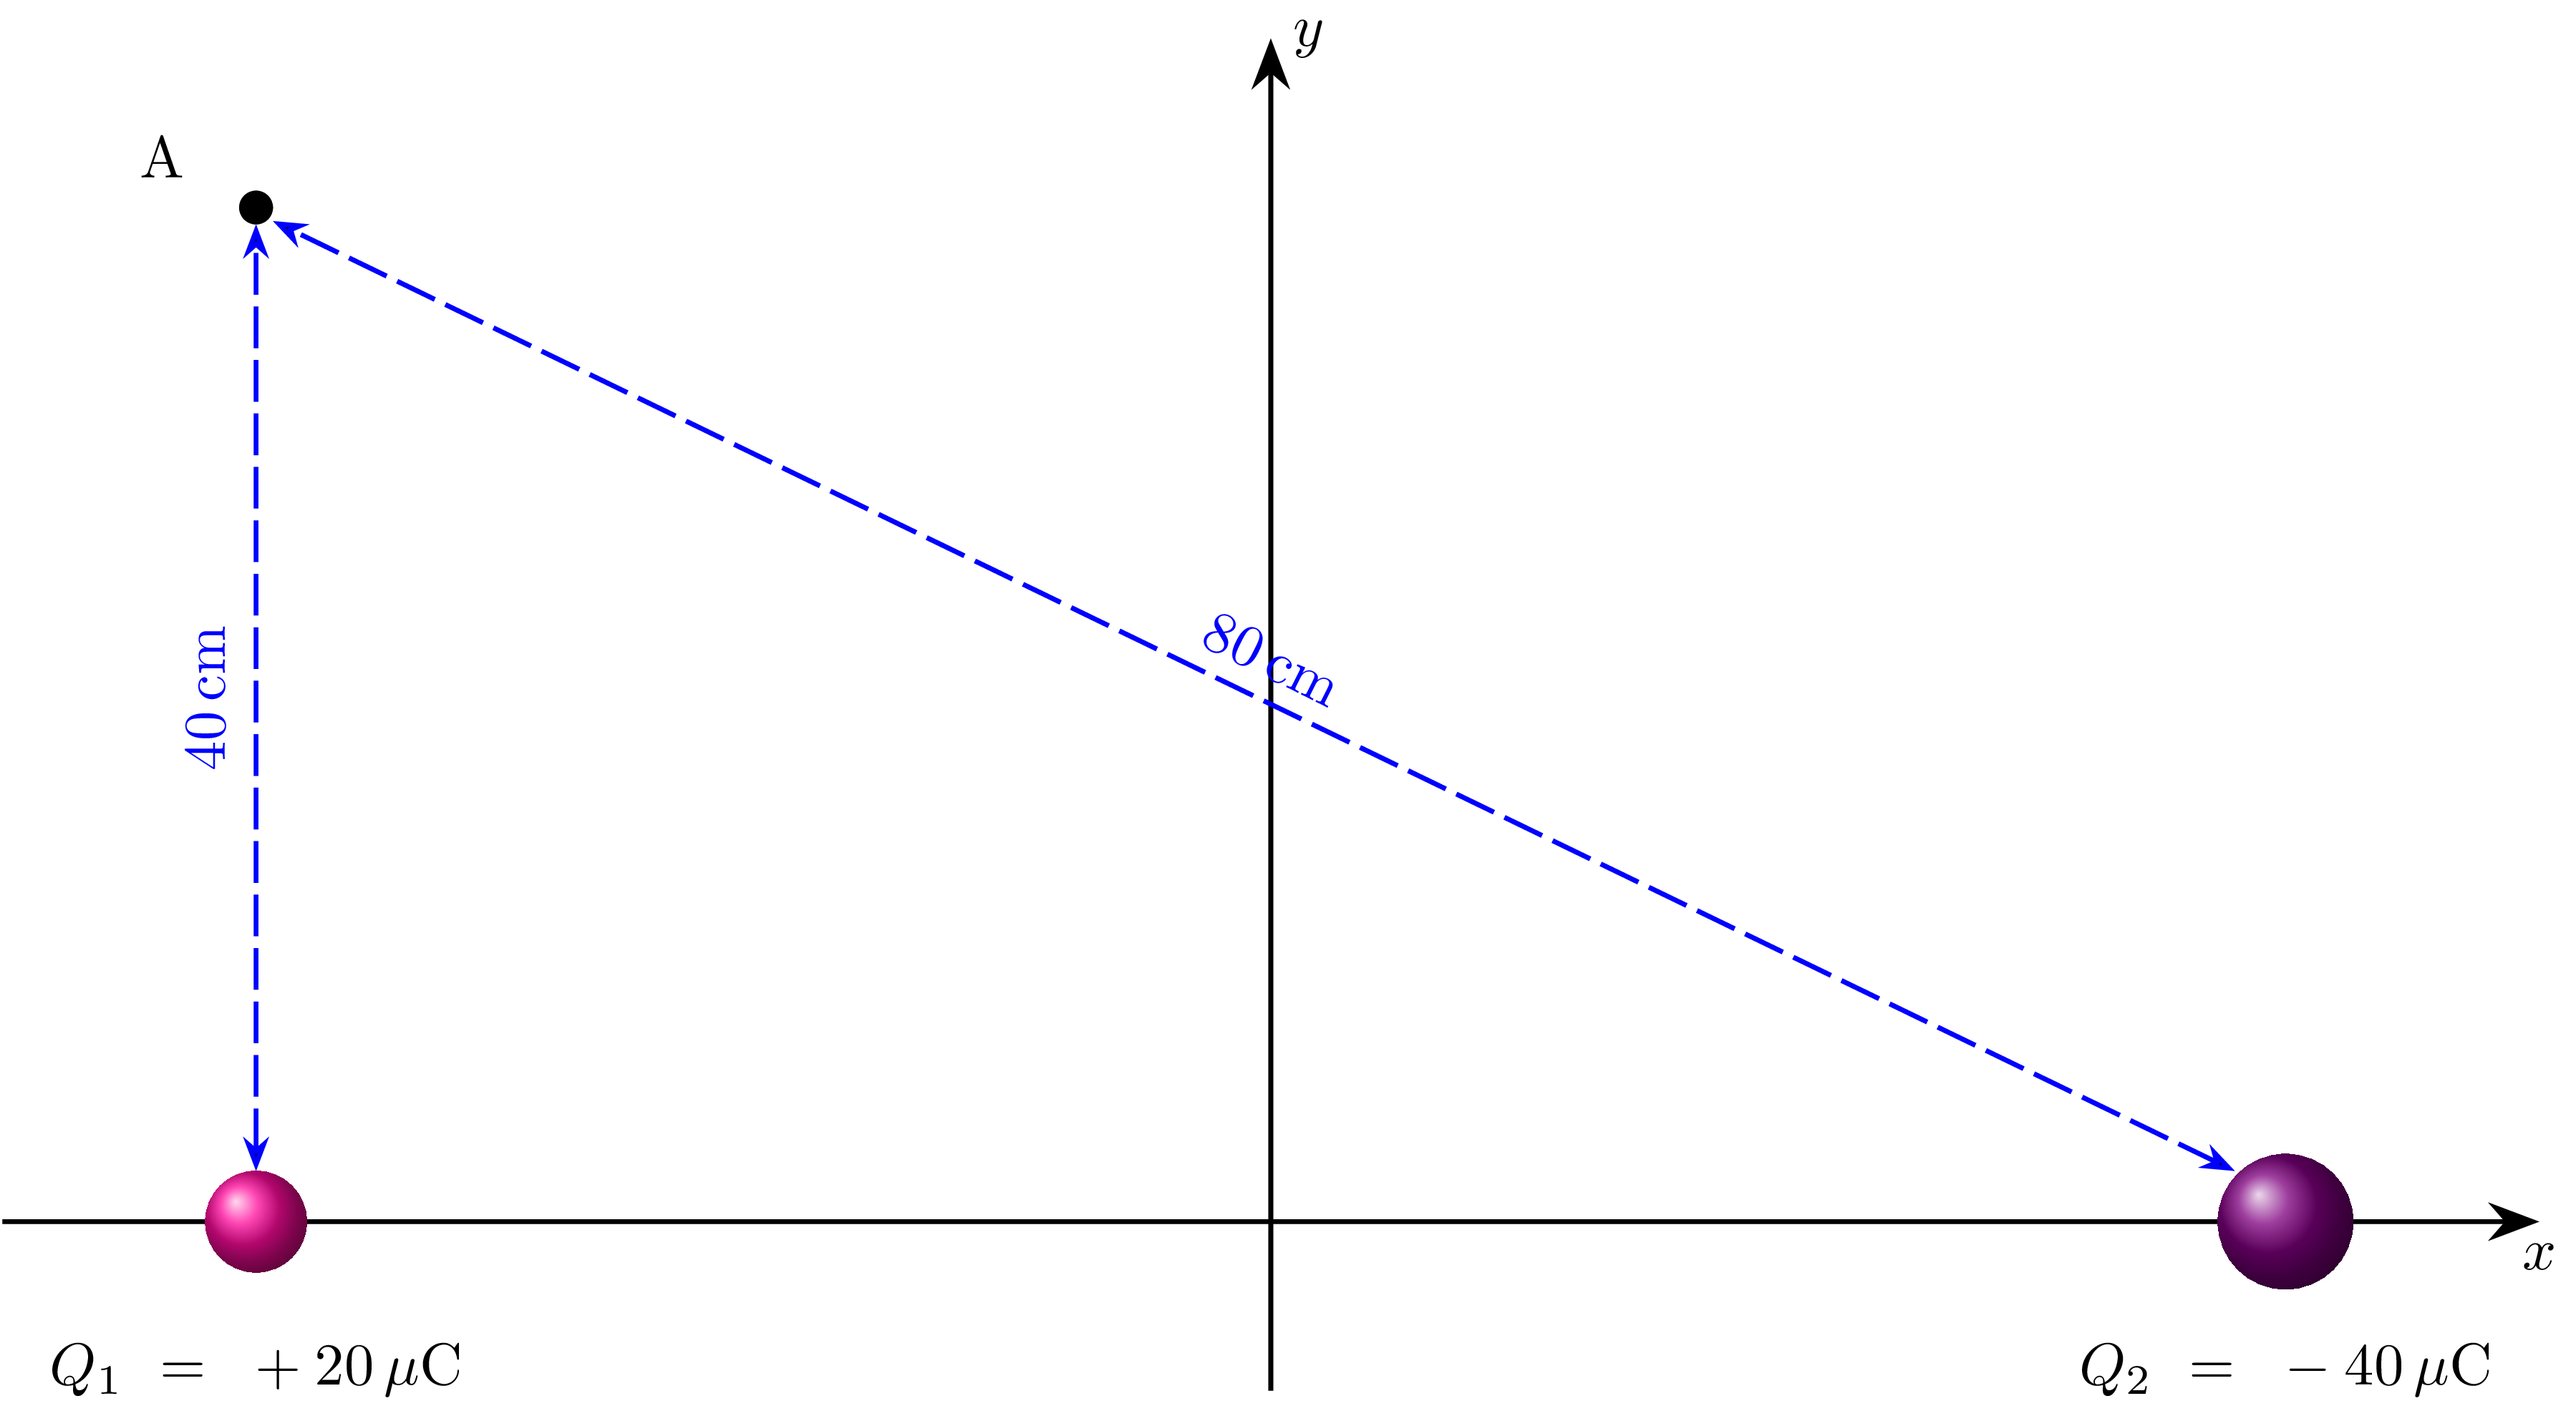
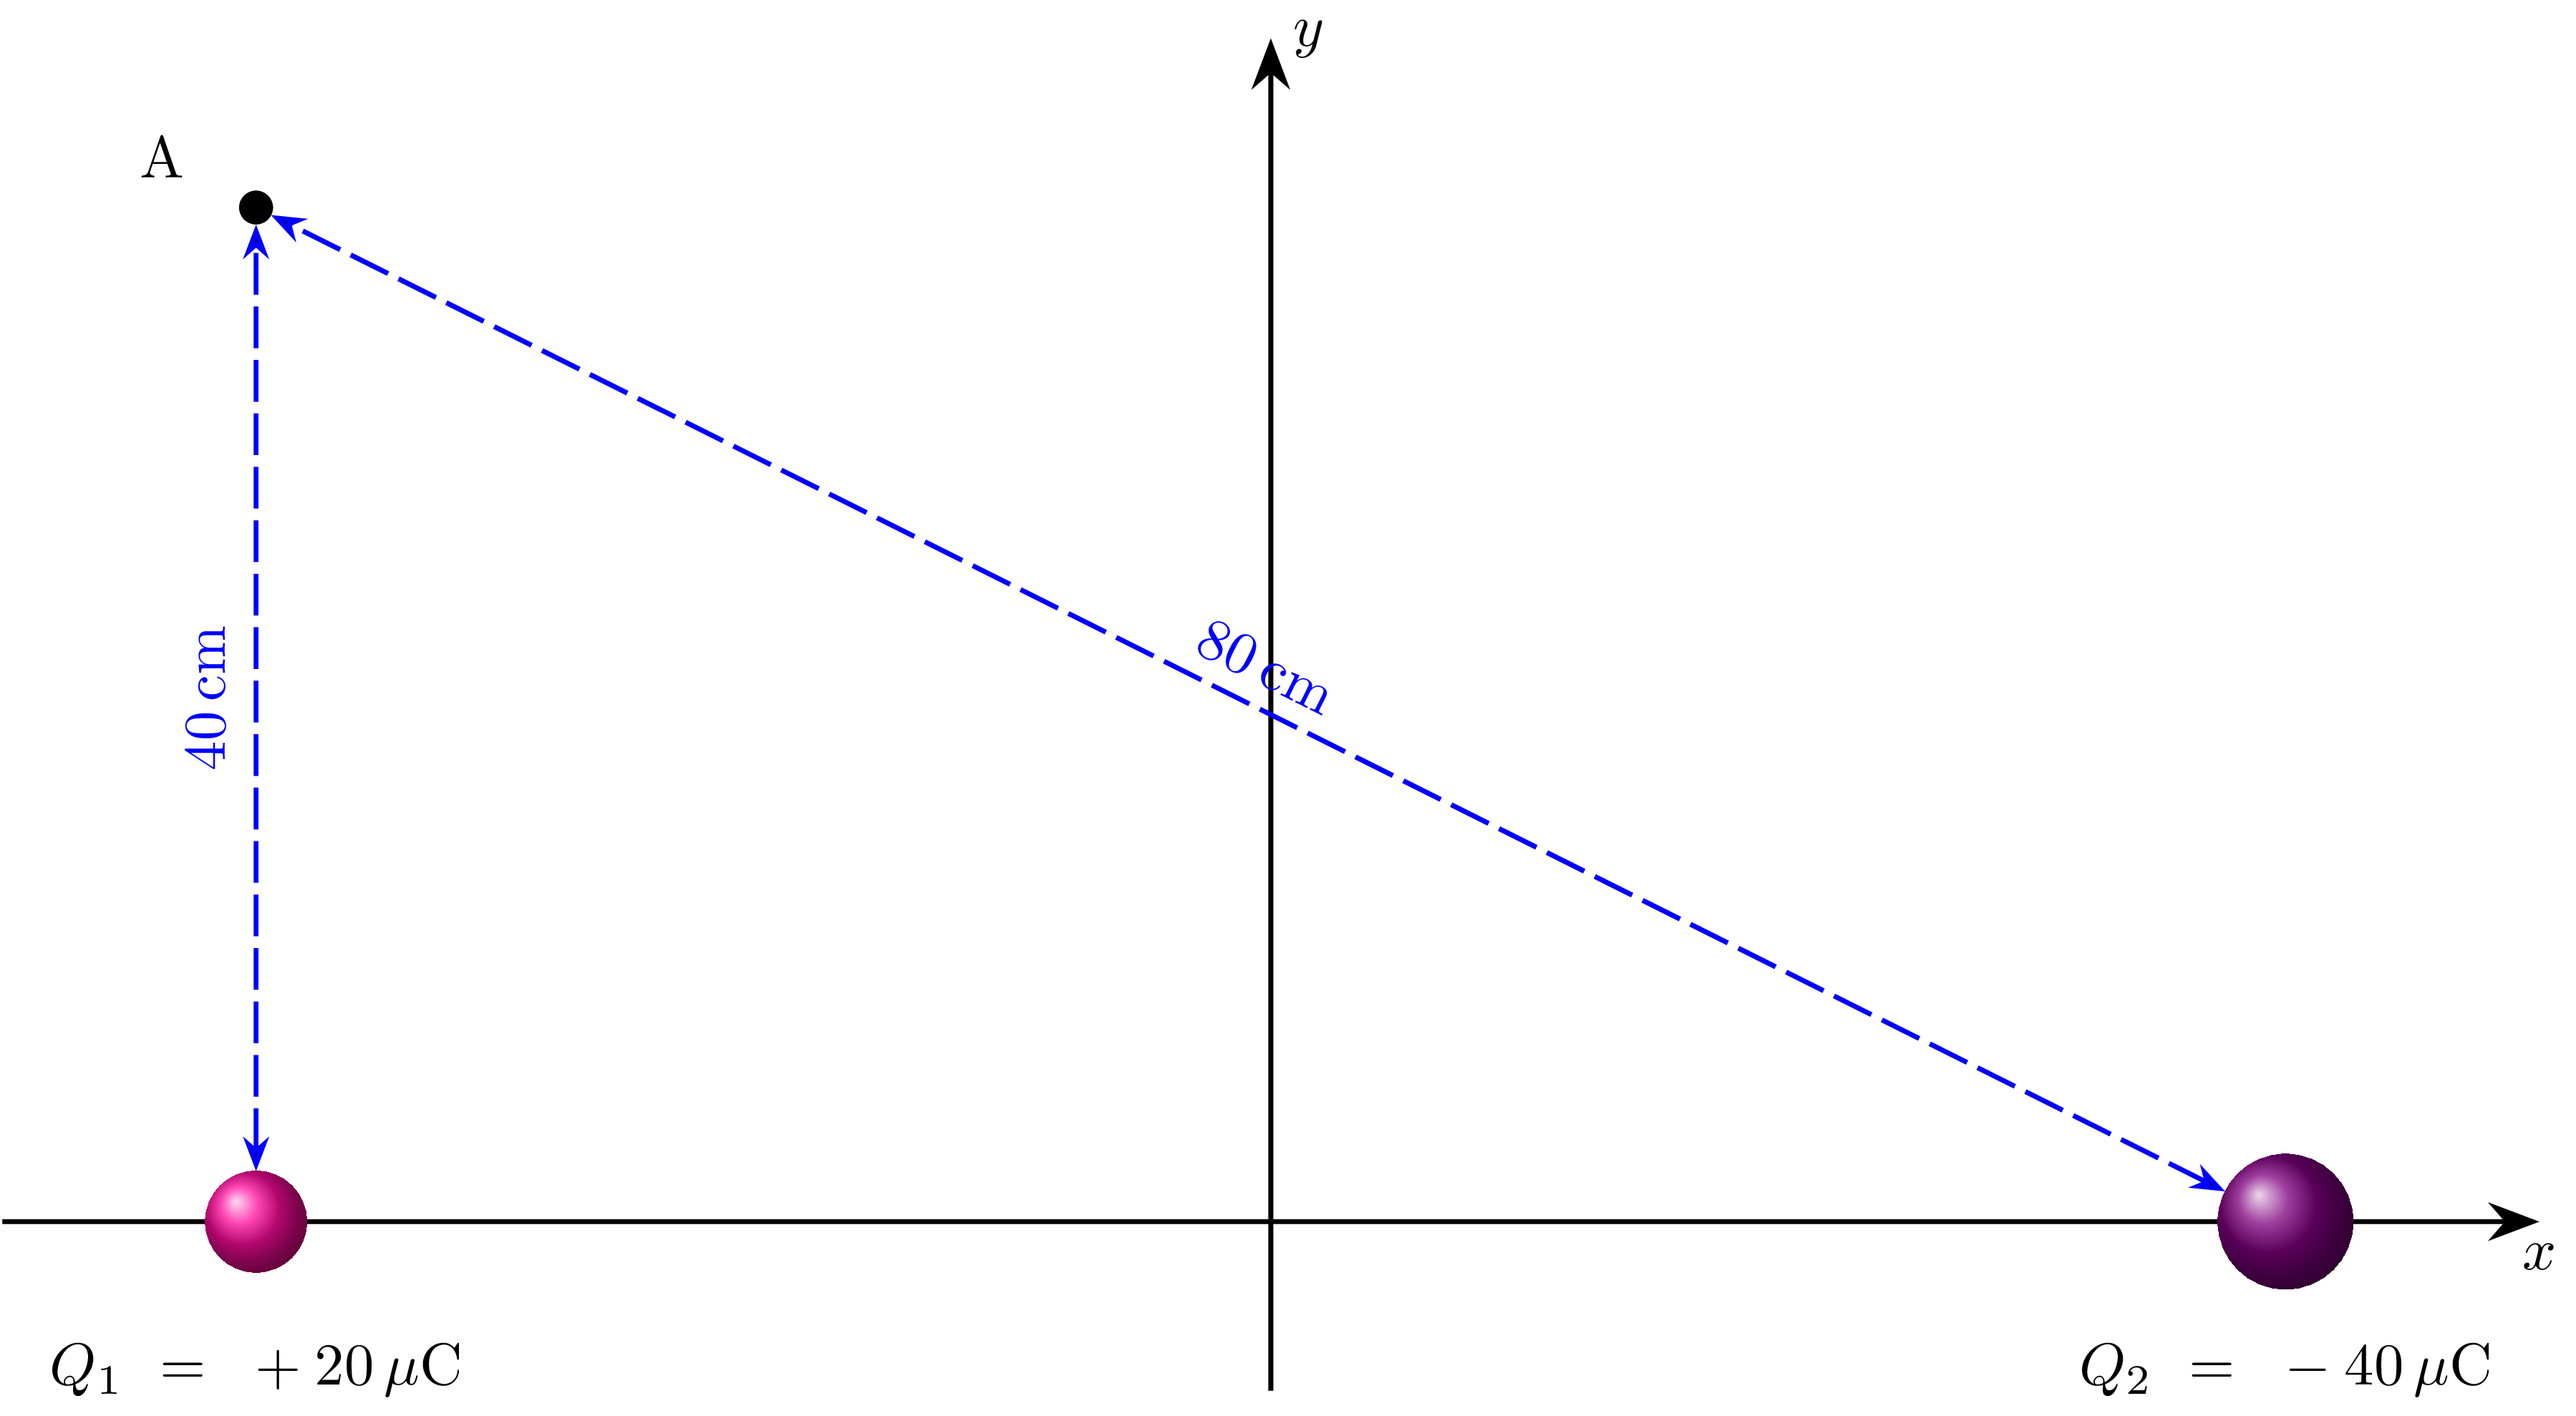
Use intersections properly to draw the distances

diff --git a/quiz-picture-potential.tex b/quiz-picture-potential.tex
@@ -16,7 +16,8 @@
 \usepackage[usenames,dvipsnames,svgnames,table]{xcolor}
 \usepackage{multicol}
 \usepackage{tikz}
-\usetikzlibrary{decorations.pathmorphing,patterns,arrows.meta,calc,decorations.markings,fadings}
+\usetikzlibrary{decorations.pathmorphing,patterns,arrows.meta}
+\usetikzlibrary{intersections,calc,decorations.markings,fadings}
 
 
 
@@ -253,7 +254,7 @@
 	%
 	\def\negcolor{Purple}
 	\def\negrad{0.4}
-	\shade [draw=none, ball color=\negcolor]
+	\shade [draw=none, ball color=\negcolor, name path=neg-charge]
 		(\chgdist, 0) circle (\negrad)
 		node [below, yshift=-6mm] {$ Q_2 ~=~ -40\,\mu \text{C}$};
 
@@ -262,7 +263,7 @@
 	%
 	\def\poscolor{WildStrawberry}
 	\def\posrad{0.3}
-	\shade [draw=none, ball color=\poscolor]
+	\shade [draw=none, ball color=\poscolor, name path=pos-charge]
 		(-\chgdist, 0) circle (\posrad)
 		node [below, yshift=-6mm] {$ Q_1 ~=~ +20\,\mu \text{C}$};
 
@@ -271,16 +272,25 @@
 	%
 	\def\ptrad{0.1}
 	\coordinate (A) at (-\chgdist, {\chgdist} );
-	\filldraw (A) [draw=none, fill=black] circle (\ptrad) node [above, left, xshift=-3mm, yshift=3mm] { A };
+	\filldraw (A) [draw=none, fill=black, name path=point-A]
+		circle (\ptrad) node [above, left, xshift=-3mm, yshift=3mm] { A };
 
 	%
 	% Distances
 	%
-	\draw [thick, draw=blue, style={Stealth[length=2.0mm]}-{Stealth[length=2.0mm]}, dash pattern=on 7pt off 2pt]
-		($ ( -\chgdist, 0 ) + (0, \posrad) $) -- ($ (A) + (0, -\ptrad) $)
+	\path [draw=none, name path=distance-pos-A]
+		(-\chgdist, 0) -- (A);
+	\path [draw=none, name path=distance-neg-A]
+		(\chgdist, 0) -- (A);
+	\draw [thick, draw=blue, style={Stealth[length=2.0mm]}-{Stealth[length=2.0mm]}, dash pattern=on 7pt off 2pt,
+		name intersections={of=distance-pos-A and pos-charge, name=pos-connect},
+		name intersections={of=distance-pos-A and point-A, name=point-A-pos-connect}]
+		(pos-connect-1) -- (point-A-pos-connect-1)
 		node [xshift=-3mm, midway, color=blue, rotate=90] {$ 40\,\text{cm} $};
-	\draw [thick, draw=blue, style={Stealth[length=2.0mm]}-{Stealth[length=2.0mm]}, dash pattern=on 7pt off 2pt]
-		($ ( \chgdist, 0) + (-0.3, 0.3) $) -- ($ (A) + (0.1, -0.08) $)
+	\draw [thick, draw=blue, style={Stealth[length=2.0mm]}-{Stealth[length=2.0mm]}, dash pattern=on 7pt off 2pt,
+		name intersections={of=distance-neg-A and neg-charge, name=neg-connect},
+		name intersections={of=distance-neg-A and point-A, name=point-A-neg-connect}]
+		(neg-connect-1) -- (point-A-neg-connect-1)
 		node [midway, above, color=blue, rotate={-atan(0.5)}] {$ 80\,\text{cm} $};
 \end{tikzpicture}
 
